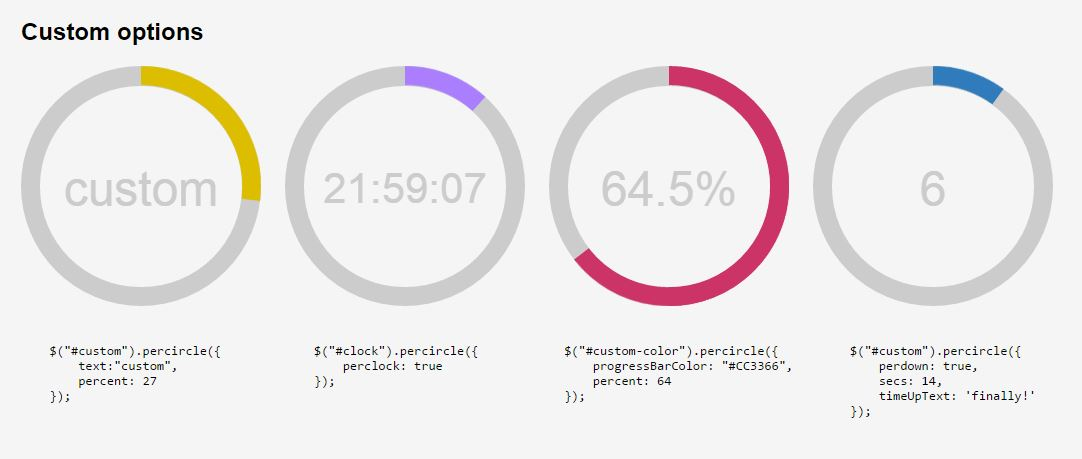
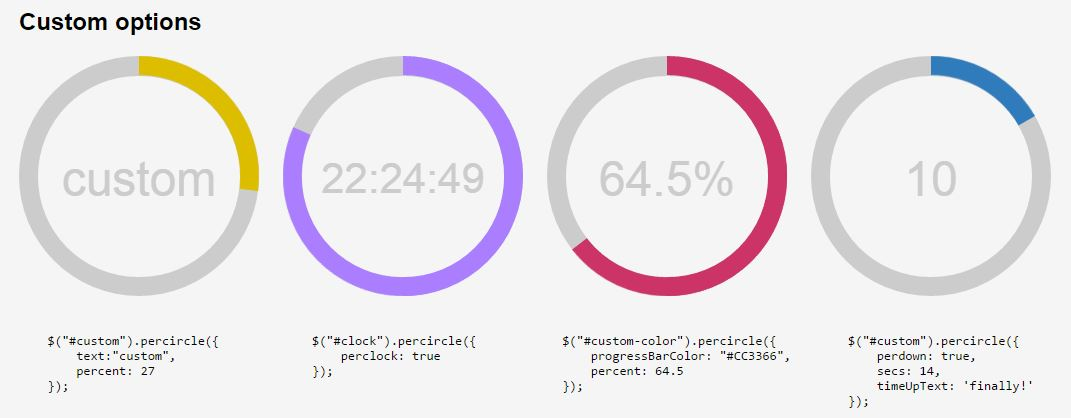
Updated images and readme

diff --git a/index.html b/index.html
@@ -95,7 +95,7 @@
             <pre>
     $("#custom").percircle({             $("#clock").percircle({            $("#custom-color").percircle({          $("#custom").percircle({                          
         text:"custom",                       perclock: true                     progressBarColor: "#CC3366",            perdown: true,                        
-        percent: 27                      });                                    percent: 64                             secs: 14, 
+        percent: 27                      });                                    percent: 64.5                           secs: 14, 
     });                                                                     });                                         timeUpText: 'finally!'
                                                                                                                     });                       
             
